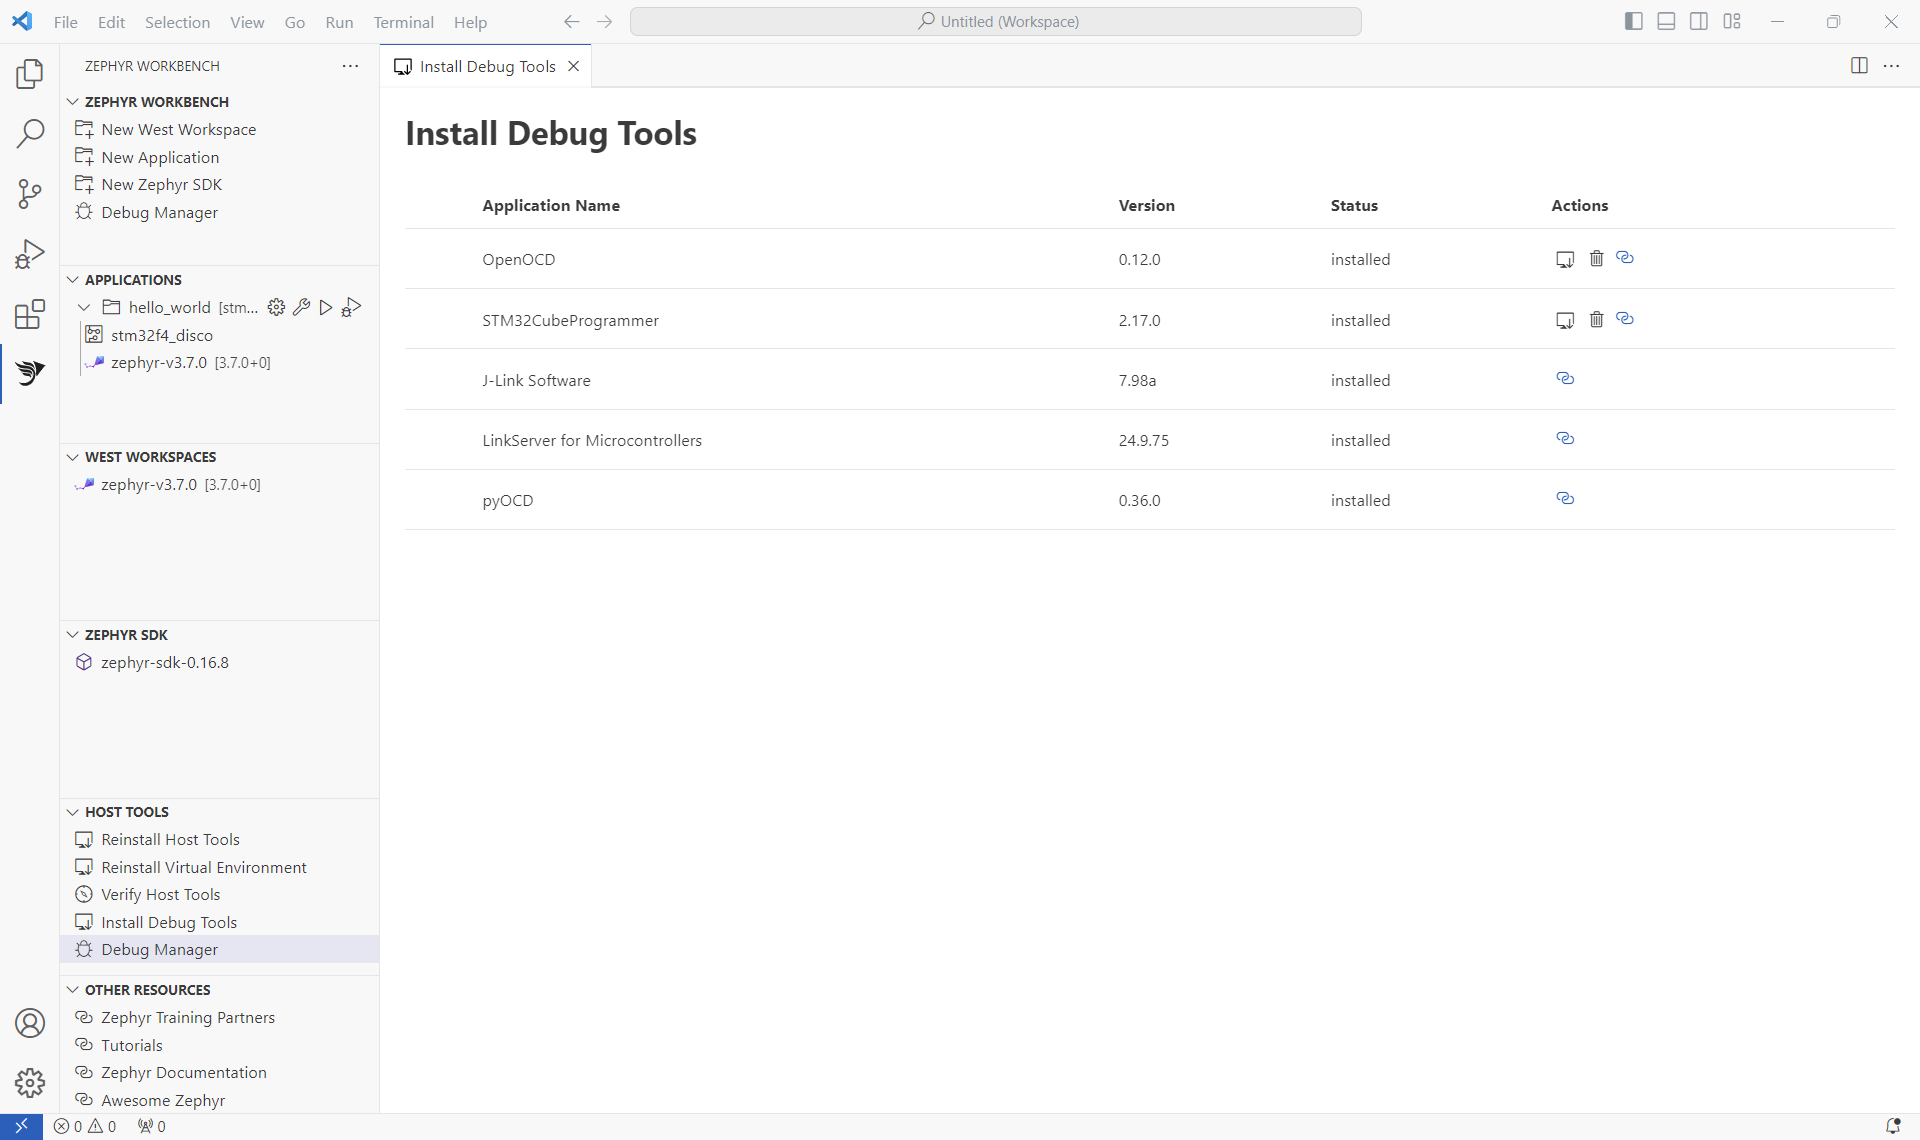
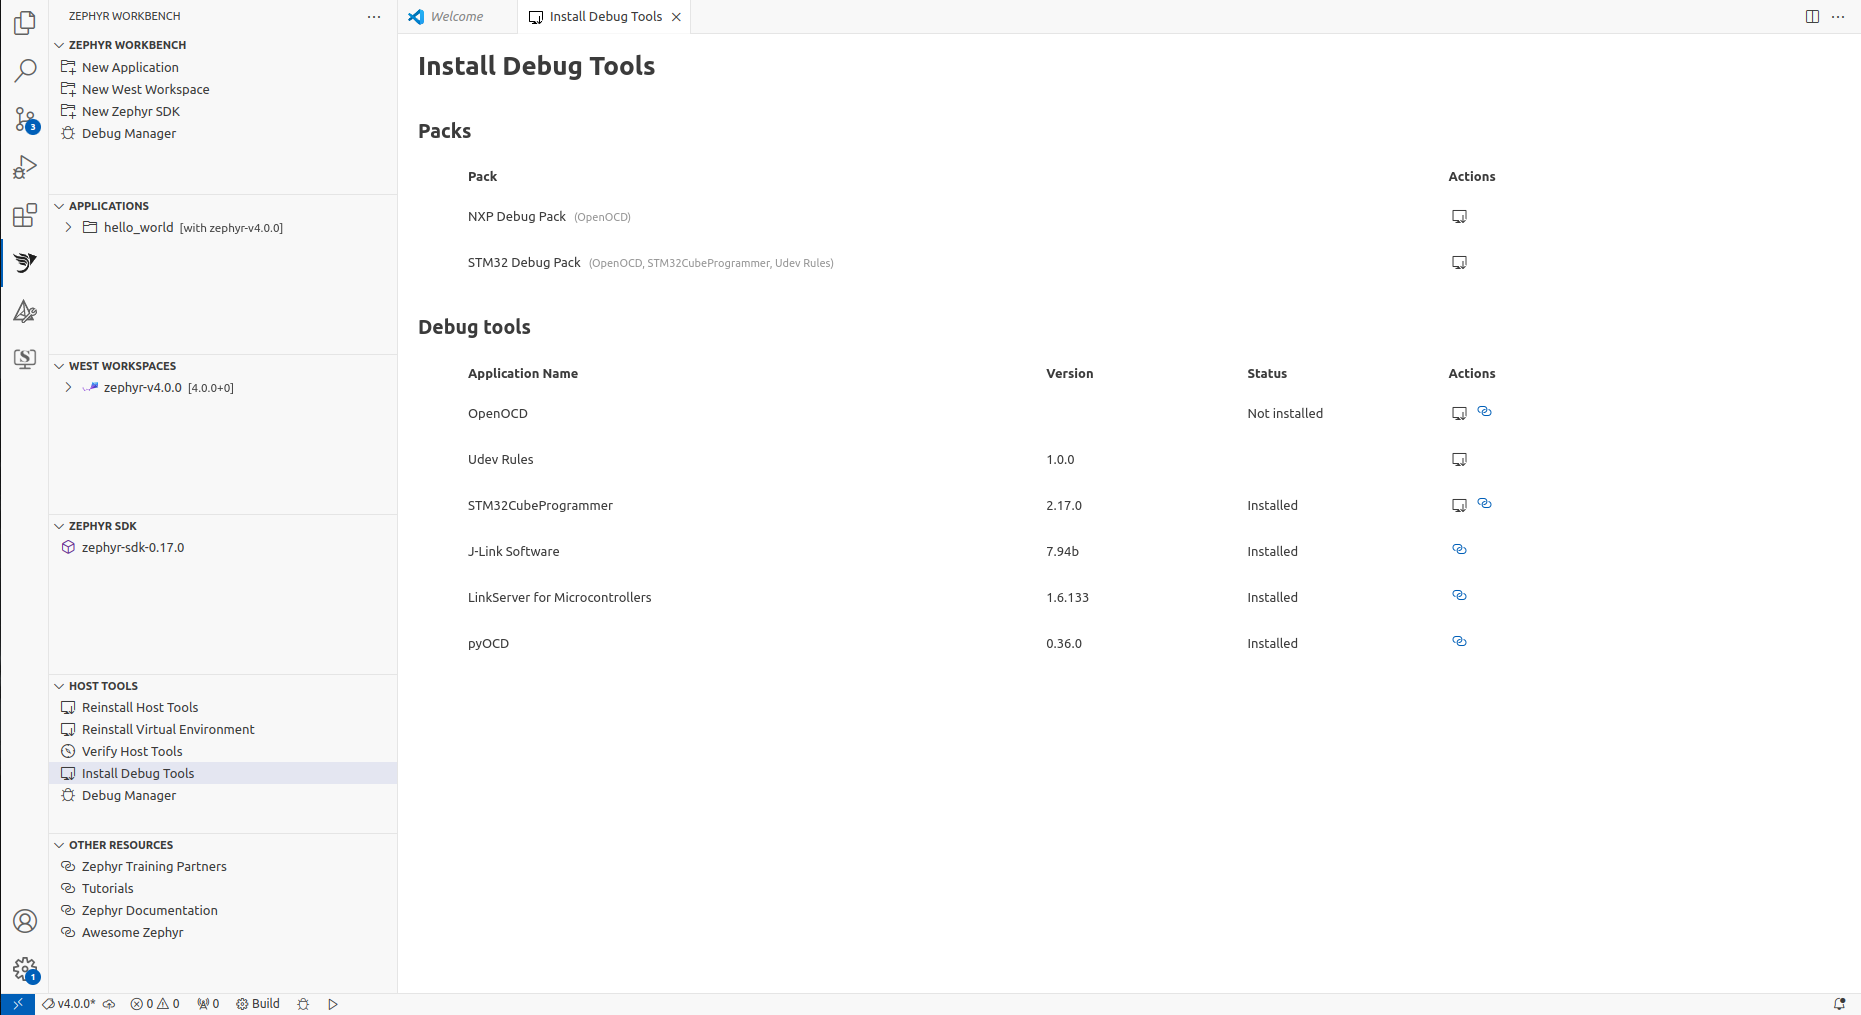
Update tutorial and add gif images

diff --git a/docs/tutorials/nucleo-wba55.md b/docs/tutorials/nucleo-wba55.md
@@ -1,0 +1,102 @@
+# Getting started with ST NUCLEO-WBA55
+
+This page objective is to guide you step by step on how to create your first Zephyr application on the ST NUCLEO-WBA55CG board.
+
+The NUCLEO-WBA55CG is a Bluetooth® Low Energy wireless and ultra-low-power board embedding a powerful and ultra-low-power radio compliant. The board includes an ST-LINK/V3 embedded debug tool interface. It could be used for flash and debug using OpenOCD.
+
+- Vendor: ST Microelectronics
+- Architecture: arm
+- SoC: stm32wba55
+
+Compatible runner:
+- OpenOCD
+  
+![NUCLEO-WBA55CG](/img/tutorials/nucleo-wba55cg/NUCLEO-WBA55CG-TOP.jpg)
+
+## Installation
+
+Please follow the [Installation](/docs/documentation/installation) guide.
+
+## Import a SDK
+
+Import a minimal SDK for ARM target. 
+
+* Click on "Import SDK" or "Add Zephyr SDK" button
+* Open the newly opened page, enter information about your Zephyr SDK.
+  - For example:
+    - Source location: Official SDK
+    - SDK Type: Minimal
+    - Version: v0.17.0
+    - Toolchains: arm
+    - Location: enter the parent location where to import the Zephyr SDK (eg. `path/to/sdk/arm-zephyr-sdk-0.17.0`)
+* Click on "Import"
+
+![Import SDK](/img/tutorials/nucleo-wba55cg/zw_import_sdk.gif)
+
+After the **SDK** is download and installed, it is listed in the **ZEPHYR SDK** view.
+
+## Import STM32 minimal west workspace
+
+Import a minimal west workspace for NXP.
+
+* Click on "Initialize workspace" or "New West Workspace" button
+* Open the newly opened page, enter information about your west workspace instance.
+  - For example:
+    - Source location: Minimal from template
+    - Path: https://github.com/zephyrproject
+    - Template: STM32
+    - Branch: v4.0.0
+    - Location: enter the directory where the west workspace will be imported 
+(the directory name will serve as workspace name, eg. `path/to/workspace/stm32-zephyr-v4.0.0`).
+(it takes several minutes to init then update the workspace)
+* Click on "Import"
+  
+![Init workspace](/img/tutorials/nucleo-wba55cg/zw_init_west_workspace.gif)
+  
+After the **Workspace** is download and installed, it is listed in the **WEST WORKSPACES** view.
+
+## Create a new blinky project
+The environment set up complete. We are now going to create a `blinky` project for the Arduino Uno R4 WiFi board.
+
+* Click on "Create New Application"
+* Select the **West Workspace** previously init
+* Select the **Zephyr SDK** previously imported
+* Select `ST Nucleo WBA55CG` as the target **Board**
+* Select `blinky` as **Sample** project
+* Enter a project name or keep `blinky` as value
+* Enter the project location
+* Select the Pristine Build option (More information on [Pristine Builds](https://docs.zephyrproject.org/latest/develop/west/build-flash-debug.html#pristine-builds))
+* Click on "Create"
+
+![Create blinky](/img/tutorials/nucleo-wba55cg/zw_create_blinky.gif)
+
+When the project creation is done, it appears on the **APPLICATIONS** view.
+
+To build the project, right-click on it, then select "Build". The build output is displayed in the *Terminal*.
+
+![Build](/img/tutorials/nucleo-wba55cg/zw_build_blinky.gif)
+
+## Flash and Debug project
+
+ST Nucleo WBA55CG has a built-in ST-Link/V3 debug adapter that you can use for flashing and debugging. It is compatible the following runners:
+* OpenOCD
+
+OpenOCD is provided with Zephyr Workbench, but not installed by default. Go to the **Install Debug Tools** page to install the 
+STM32 Debug Pack, it provides you OpenOCD and the drivers/tools to support STM32 target debug.
+
+Connect your machine with the ST Nucleo WBA55CG on the USB-C connector.
+
+* Open the "Debug Manager" 
+* Select the `blinky` application (The page takes several second to auto-complete). The build configuration should be `primary`.
+* Select `pyOCD` as runner ("Runner executable found" should be displayed if the probe software is installed on your system)
+* If the runner is not found, enter the path to it executable.
+  
+![Debug configuration](/img/tutorials/nucleo-wba55cg/zw_debug_blinky.gif)
+
+* Click on "Apply" to save the debug configuration.
+* Click on "Debug" to start the debug session.
+
+:::warning
+On older version of west workspace, the support of the debug with OpenOCD might not work as the target might not start after flashing process. 
+As workaround, this solution is to edit the `[PATH_TO_WEST_WORKSPACE]/boards/st/nucleo_wba55cg/support/openocd.cfg` and replace the line `reset_config srst_only srst_nogate` with `reset_config srst_nogate`.
+:::

diff --git a/docs/documentation/debug-tools.md b/docs/documentation/debug-tools.md
@@ -5,11 +5,19 @@ sidebar_position: 8
 
 ## Install Debug Tools
 
-This page list the external tools that can be installed to support remote debug.
-For some tools, you can installed them by click on the install button.
-Other tools needs the user to register to the editor website and accept license. Click on the URL icon to be redirected the tool download or home page.
+This page list the packs and the external debug tools that can be installed to support remote debug for your target. Not every target board 
+are supported, please refer to the manufacturer user manual.
 
 ![Debug tools](/img/zw/debug-tools/zw_install_debug_tools.png)
+
+### Packs
+
+Some targets requires multiple tools for the debug. The tools are grouped in pack and can be installed in one click.
+
+### Tools
+
+For some tools, you can installed them by click on the install button.
+Other ones requires you to register to the editor website and to accept license. Click on the URL icon to be redirected the tool download page then install it manually.
 
 **OpenOCD** (Open On-Chip Debugger ) is an open source project that provides on-chip programming and debugging support with a
 layered architecture of JTAG interface and TAP support. OpenOCD can be installed from the "Debug Tools" page.

diff --git a/docs/tutorials/arduino-uno-r4-wifi.md b/docs/tutorials/arduino-uno-r4-wifi.md
@@ -2,7 +2,7 @@
 
 This page objective is to guide you step by step on how to create your first Zephyr application on the Arduino UNO R4 WiFi board.
 
-The Arduino UNO R4 WiFi  a development board featuring the Renesas RA4M1 SoC with a 32-bit ARM Cortex-M4 in the Arduino form factor and is compatible with traditional Arduino. 
+The Arduino UNO R4 WiFi a development board featuring the Renesas RA4M1 SoC with a 32-bit ARM Cortex-M4 in the Arduino form factor and is compatible with traditional Arduino. 
 
 - Vendor: Arduino
 - Architecture: arm
@@ -32,7 +32,7 @@ Import a minimal SDK for ARM target.
 
 After the **SDK** is download and installed, it is listed in the **ZEPHYR SDK** view.
 
-## Import NXP minimal west workspace
+## Import Renesas minimal west workspace
 
 Import a minimal west workspace for NXP.
 
